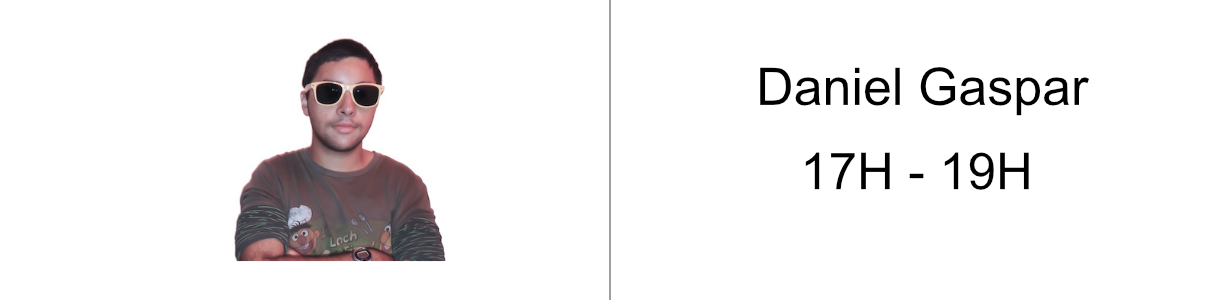
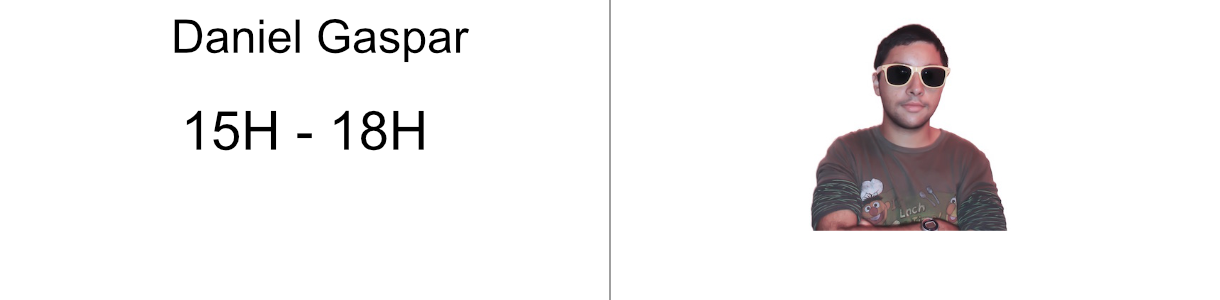
danielgaspar enviar

Changed region(s): [[0.1246, 0.06, 0.4049, 0.87], [0.623, 0.06, 0.9033, 0.78]]

diff --git a/site/programacao.md b/site/programacao.md
@@ -7,24 +7,24 @@ PROGRAMAÇÃO
 
 ![SEGUNDA](/imagens/segunda.png)
 
-![Daniel Gaspar](/imagens/)
+![Daniel Gaspar](/imagens/emissao1111111.png)
 
 ![A TARDE](/imagens/atarde.png)
 
 ![A NOITE](/imagens/aanoite.png)
 
-![TOP TEN](/imagens/)
+![TOP TEN](/imagens/topten.png)
 
 
 ![TERÇA](/imagens/terça.png)
 
-![2H DE MÚSICA SEGUIDA](/imagens/2hdemusicaseguida.png)
+![Daniel Gaspar](/imagens/emissao1111111.png)
 
 ![A TARDE](/imagens/atarde.png)
 
 [A NOITE](/imagens/aanoite.png)
 
-![TOP TEN](/imagens/)
+![TOP TEN](/imagens/topten.pngtopten.png)
 
 
 ![QUARTA](/imagens/quarta.png)
@@ -35,7 +35,7 @@ PROGRAMAÇÃO
 
 [A NOITE](/imagens/aanoite.png)
 
-![TOP TEN](/imagens/)
+![TOP TEN](/imagens/topten.png)
 
 
 ![QUINTA](/imagens/qinta.png)
@@ -46,7 +46,7 @@ PROGRAMAÇÃO
 
 ![A NOITE](/imagens/aanoite.png)
 
-![TOP TEN](/imagens/)
+![TOP TEN](/imagens/topten.png)
 
 
 ![SEXTA](/imagens/sexta.png)
@@ -57,4 +57,4 @@ PROGRAMAÇÃO
 
 ![A NOITE](/imagens/aanoite.png)
 
-![TOP TEN](/imagens/)
+![TOP TEN](/imagens/topten.png)
